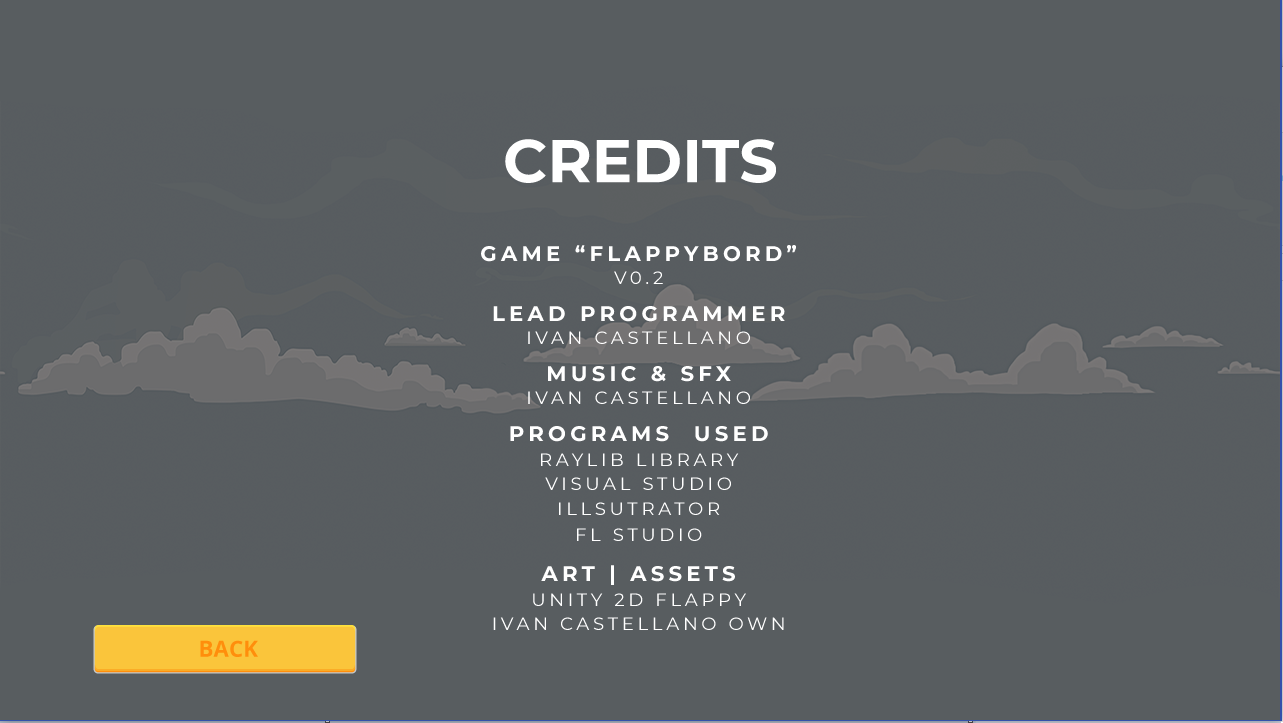
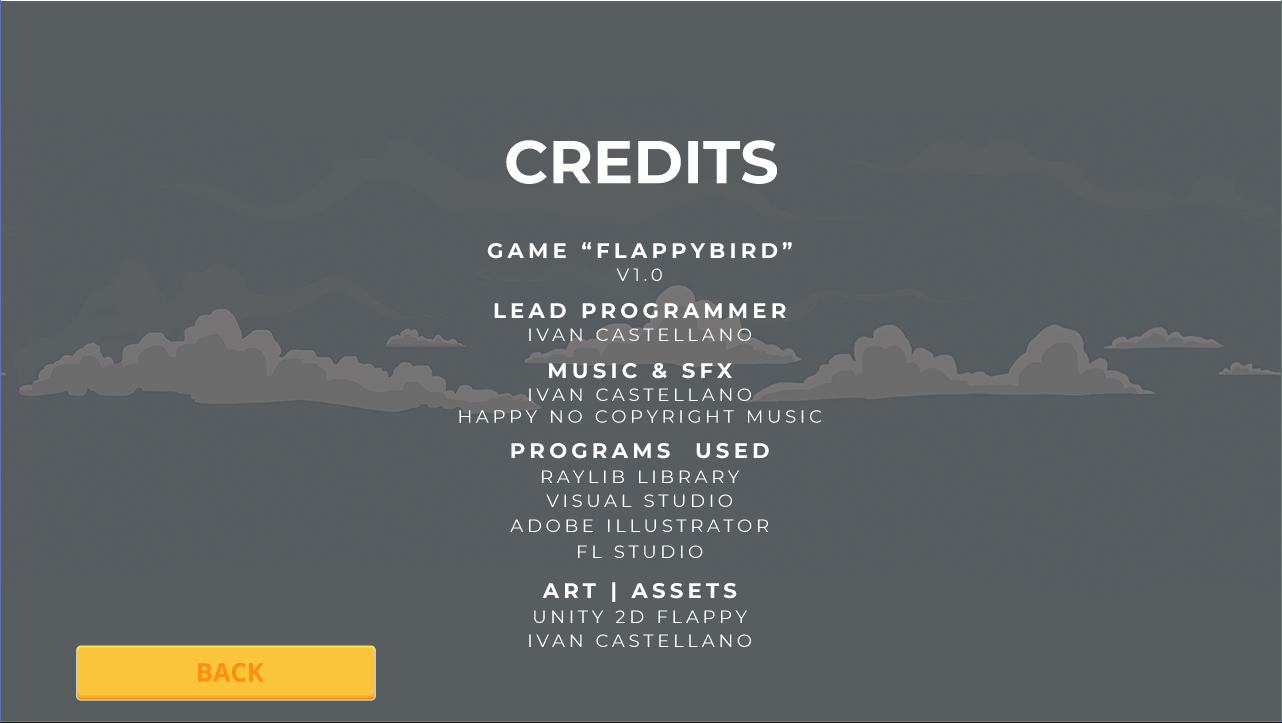
Update README

Changed region(s): [[0.3744, 0.3347, 0.624, 0.9129], [0.0, 0.0, 1.0, 1.0], [0.3744, 0.1826, 0.5928, 0.2739]]

diff --git a/FlappyBird/src/Scenes/menu.cpp b/FlappyBird/src/Scenes/menu.cpp
@@ -82,7 +82,7 @@ namespace flappybird {
 			buttons::draw(play);
 			buttons::draw(credits);
 			buttons::draw(quit);
-			DrawText("v0.2", screenWidth - 50, screenHeight - 20, 20, WHITE);
+			DrawText("v1.0", screenWidth - 50, screenHeight - 20, 20, WHITE);
 		}
 
 		void deInit() {
